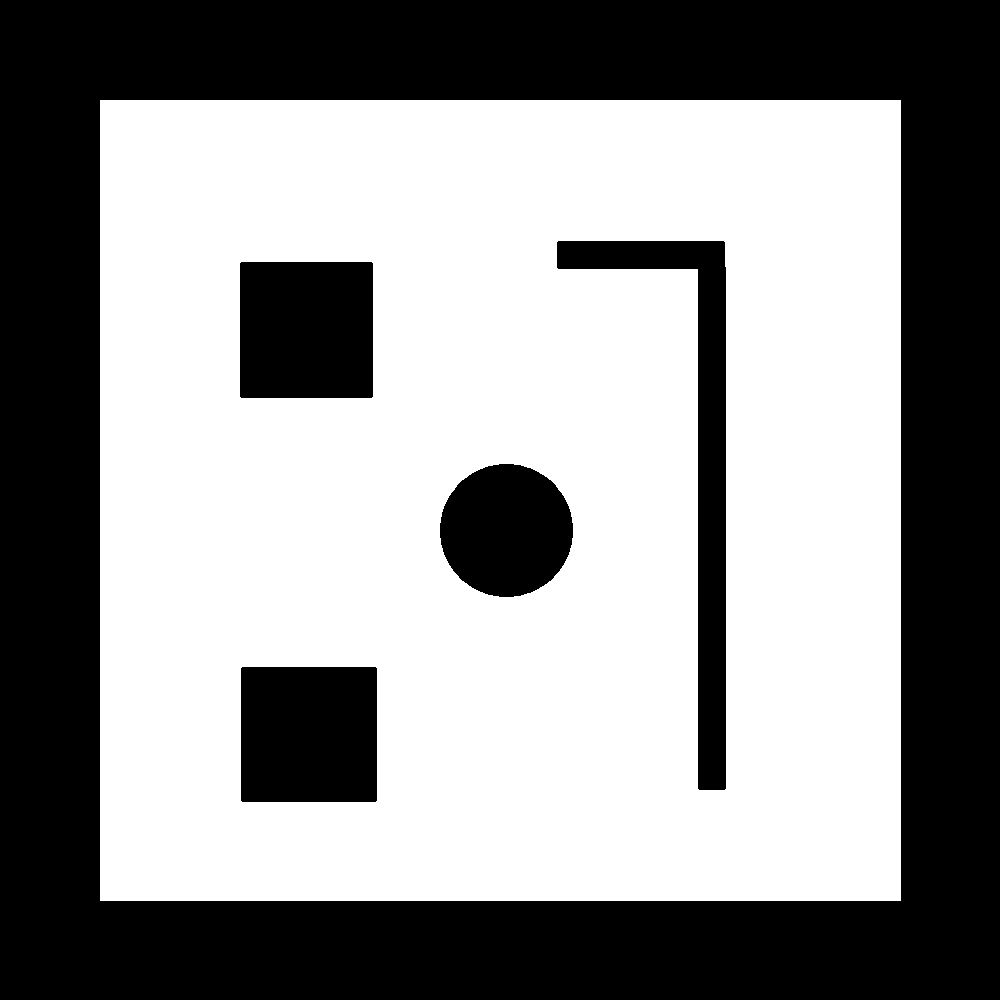
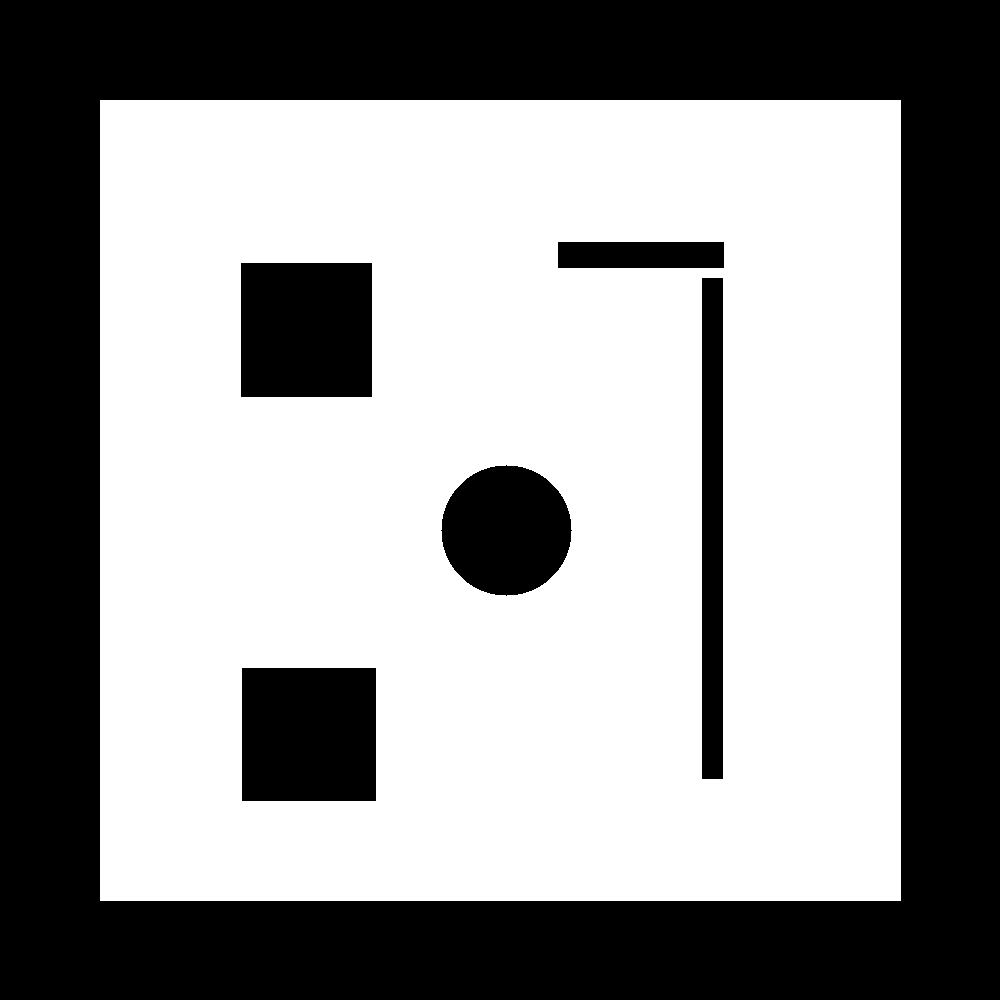
More RRT!

Changed region(s): [[0.682, 0.248, 0.744, 0.806]]

diff --git a/exercises/robot-chase/rrt.py b/exercises/robot-chase/rrt.py
@@ -434,6 +434,8 @@ class rrt_wrapper:
     # Load map.
     path = os.path.join(os.path.dirname(os.path.abspath(__file__)), 'worlds/'+map_name+'/map_thin.png')
     img = cv2.imread(path, 0)
+    #cv2.imshow('d', img)
+    #cv2.waitKey(0)
     occupancy_grid = np.empty_like(img, dtype=np.int8)
     occupancy_grid[:] = UNKNOWN
     occupancy_grid[img < .1*255] = OCCUPIED
@@ -466,7 +468,7 @@ class rrt_wrapper:
         self.unsuccesful_idx[police_car.name] += 1
         if self.unsuccesful_idx[police_car.name] > 40:
           self.unsuccesful_idx[police_car.name] = 0
-        if self.unsuccesful_idx[police_car.name] > 15:
+        if self.unsuccesful_idx[police_car.name] > 5:
           print("Backup no path")
           current_path[police_car.name] = [[police_car.pose[0] - 0.3*math.cos(police_car.pose[2]), police_car.pose[1] - 0.3*math.sin(police_car.pose[2])]]
           time.sleep(0.1)
@@ -476,7 +478,7 @@ class rrt_wrapper:
           current_path[police_car.name] = get_path(final_node)
       elif front <0.22 or front_left < 0.2 or front_right < 0.2:
         self.unsuccesful_idx[police_car.name] += 1
-        if self.unsuccesful_idx[police_car.name] > 20:
+        if self.unsuccesful_idx[police_car.name] > 10:
           print("Backup lidar")
           current_path[police_car.name] = [[police_car.pose[0] - 0.3*math.cos(police_car.pose[2]), police_car.pose[1] - 0.3*math.sin(police_car.pose[2])]]
           time.sleep(0.5)

diff --git a/exercises/robot-chase/robot_chase.py b/exercises/robot-chase/robot_chase.py
@@ -27,8 +27,8 @@ CYLINDER_RADIUSS = [.3]
 # Map occupancy information
 size_m = 10		 # 10m x 10m size
 resolution_m = 0.01 # 1cm resolution
-MAP_NAME = "simple_world_big"
-#MAP_NAME = "cluttered_world"
+#MAP_NAME = "simple_world_big"
+MAP_NAME = "cluttered_world"
 
 # Limits (in meters) for x and y in the environment
 xlim = [-4, 4]
@@ -96,8 +96,9 @@ def run(args):
 	mode_estimator = args.mode_estimator
 
 	map_img = map_thick_img
-	if mode_estimator == 'line_of_sight':
+	if mode_estimator == 'line_of_sight' or mode_estimator == 'gt':
 		map_img = map_thin_img
+		print("Thin map")
 
 	##### Particles and estimation - Setup START
 
@@ -114,7 +115,7 @@ def run(args):
 	prev_baddie_measurement = [None] * int(nr_baddies)
 
 	# Live plot of lidar measurements if you are using lidar to estimate baddies positions
-	live_plot = True
+	live_plot = False
 
 	##### Particles and estimation - Setup END
 
@@ -140,8 +141,8 @@ def run(args):
 
 	# Main loop
 	while not rospy.is_shutdown():
-		#baddies_method(baddies, police)
-		#police_method(police, baddies)
+		baddies_method(baddies, police)
+		police_method(police, baddies)
 
 		check_if_any_caught(police, baddies)
 

diff --git a/exercises/robot-chase/worlds/CreateBinaryOccupancy.py b/exercises/robot-chase/worlds/CreateBinaryOccupancy.py
@@ -12,7 +12,7 @@ resolution_m = 0.01 # 1cm resolution
 size_px = int(size_m/resolution_m) # image is of size: size_px x size_px
 
 # set inflation of lines. (centre to edge inflation distance)
-inflation_m = 0.3
+inflation_m = 0.001
 draw_thickness = int(2 * inflation_m / resolution_m)
 
 
@@ -25,7 +25,7 @@ world = [8, 8, 0, 0, 0, -1]
 rect1 = [8.15, 8.15, 0, 0, 0, 0]
 
 ''' Cluttered world stuff: '''
-rect2 = [0.25, 5.21, 2.12, -0.28, 0, 1]
+rect2 = [0.2, 5, 2.12, -0.28, 0, 1]
 rect3 = [1.65, 0.25, 1.41, 2.45, 0, 1]
 rect4 = [1.3, 1.33, -1.94, 1.7, 0, 1]
 rect5 = [1.33, 1.32, -1.91, -2.34, 0, 1]

diff --git a/exercises/robot-chase/control_functions.py b/exercises/robot-chase/control_functions.py
@@ -20,8 +20,8 @@ CYLINDER_RADIUSS = [.3]
 size_m = 10		 # 10m x 10m size
 resolution_m = 0.01 # 1cm resolution
 size_px = int(size_m/resolution_m) # image is of size: size_px x size_px
-MAP_NAME = "simple_world_big"
-#MAP_NAME = "cluttered_world"
+#MAP_NAME = "simple_world_big"
+MAP_NAME = "cluttered_world"
 
 # --------------------------- CONTROL METHODS ------------------------
 
